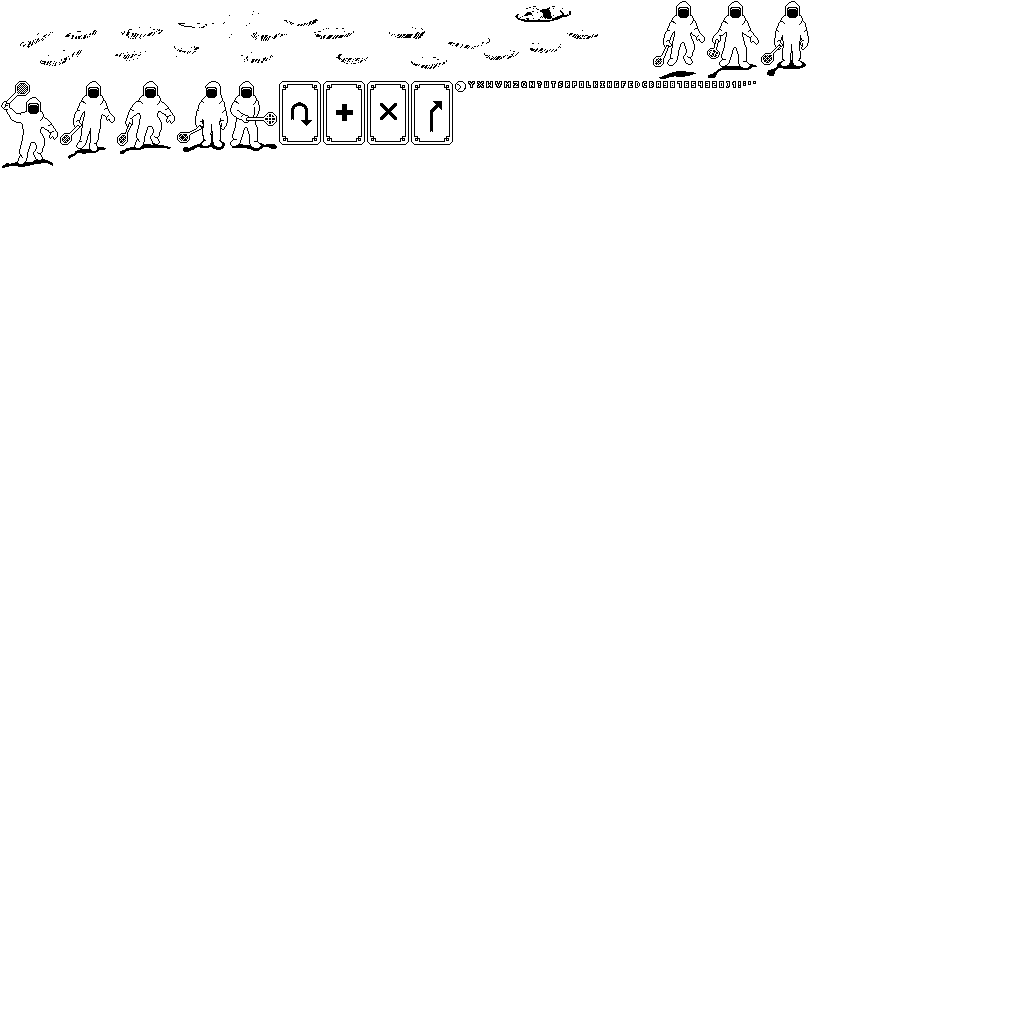
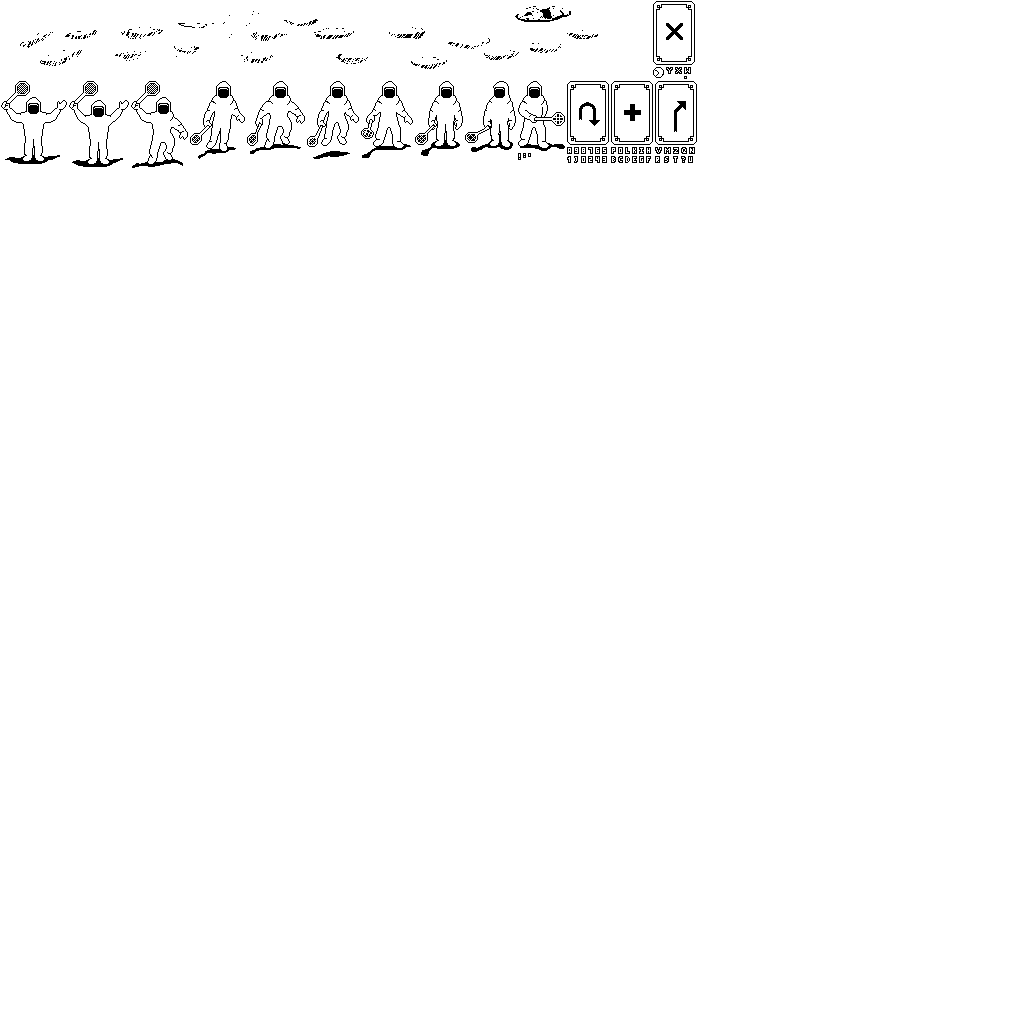
Add cheering animation for the winner
And declare a winner instead of a looser.

Changed region(s): [[0.0, 0.0, 0.7812, 0.1875]]

diff --git a/htdocs/index.html b/htdocs/index.html
@@ -85,13 +85,15 @@ var M = Math,
 	ASTRONAUT_MOVE3 = 205,
 	ASTRONAUT_STROKE0 = 206,
 	ASTRONAUT_STROKE1 = 207,
-	BALL = 208,
-	STAR0 = 209,
-	STAR1 = 210,
-	CARD_PLUS = 211,
-	CARD_DISTRACT = 212,
-	CARD_REVERSE = 213,
-	CARD_DROP = 214,
+	ASTRONAUT_CHEER0 = 208,
+	ASTRONAUT_CHEER1 = 209,
+	BALL = 210,
+	STAR0 = 211,
+	STAR1 = 212,
+	CARD_PLUS = 213,
+	CARD_DISTRACT = 214,
+	CARD_REVERSE = 215,
+	CARD_DROP = 216,
 	atlas,
 	sprites = [],
 	gl,
@@ -143,7 +145,7 @@ var M = Math,
 	ended,
 	serve,
 	missed,
-	looser,
+	winner,
 	computer
 
 function drawSprite(sprite, x, y, wm, hm) {
@@ -239,7 +241,11 @@ function drawAstronaut() {
 		freq,
 		frames,
 		e = this
-	if (now - e.catched < 200) {
+	if (e === winner) {
+		frames = e.cheeringLength
+		sprite = e.cheering[e.frame % frames]
+		freq = e.cheeringFreq
+	} else if (now - e.catched < 200) {
 		frames = e.catchingLength
 		sprite = e.catching[e.frame % frames]
 		freq = e.catchingFreq
@@ -335,7 +341,7 @@ function contains(rc, x, y) {
 }
 
 function input() {
-	if (looser) {
+	if (winner) {
 		if (pointersLength > 0 && now - ended > 3000) {
 			resize()
 		}
@@ -403,8 +409,8 @@ function run() {
 		var y = yMax * .2
 		drawCenterText('TAP HERE FOR 2 PLAYERS', 0, y)
 		drawCenterText('TAP HERE FOR 1 PLAYER', 0, -y)
-	} else if (looser) {
-		drawCenterText('PLAYER ' + looser.name + ' LOST', 0, 0)
+	} else if (winner) {
+		drawCenterText('PLAYER ' + winner.name + ' WON', 0, 0)
 	} else if (missed) {
 		drawCenterText('PLAYER ' + missed.name + ' MISSED', 0, 0)
 	}
@@ -460,7 +466,7 @@ function pointerUp(event) {
 		}
 	}
 	setPointer(event, false)
-	if (missed && serve < now) {
+	if (!winner && missed && serve < now) {
 		ball.stroke(missed)
 		missed.catched = now
 		missed = null
@@ -560,7 +566,12 @@ function createEntities() {
 			sprites[ASTRONAUT_STROKE0],
 			sprites[ASTRONAUT_STROKE1],
 		],
-		catchingFreq: 100,
+		catchingFreq: 200,
+		cheering: [
+			sprites[ASTRONAUT_CHEER0],
+			sprites[ASTRONAUT_CHEER1],
+		],
+		cheeringFreq: 200,
 		x: horizon,
 		y: baseLine,
 		direction: 1,
@@ -592,7 +603,12 @@ function createEntities() {
 			sprites[ASTRONAUT_STROKE0],
 			sprites[ASTRONAUT_STROKE1],
 		],
-		catchingFreq: 100,
+		catchingFreq: 200,
+		cheering: [
+			sprites[ASTRONAUT_CHEER0],
+			sprites[ASTRONAUT_CHEER1],
+		],
+		cheeringFreq: 200,
 		x: -horizon,
 		y: -baseLine,
 		direction: 1,
@@ -627,7 +643,7 @@ function createEntities() {
 				y = this.y
 			x += this.vx * factor
 			y += this.vy * factor
-			if (!missed && !looser) {
+			if (!missed && !winner) {
 				if (y < baseLine || y > -baseLine) {
 					var shooter, defender
 					if (y < 0) {
@@ -643,8 +659,8 @@ function createEntities() {
 						this.vy *= 1.05
 						defender.catched = now
 					} else if (missed !== defender) {
-						if (++shooter.score >= 21) {
-							looser = defender
+						if (++shooter.score >= 2) {
+							winner = shooter
 							ended = now
 						} else {
 							moveTo(shooter, 0)
@@ -675,7 +691,9 @@ function createEntities() {
 		e.idleLength = e.idle ? e.idle.length : 0
 		e.moveLength = e.move ? e.move.length : 0
 		e.catchingLength = e.catching ? e.catching.length : 0
-		e.height = getMaxHeightFromSets([e.idle, e.move, e.catching])
+		e.cheeringLength = e.cheering ? e.cheering.length : 0
+		e.height = getMaxHeightFromSets([e.idle, e.move, e.catching,
+			e.cheering])
 		e.frame = 0
 		e.last = 0
 		e.playedCard = 0
@@ -761,7 +779,7 @@ function resize() {
 	spaceWidth = sprites[87].w
 	letterSpacing = spaceWidth * -.05
 	playerRange = sprites[ASTRONAUT_IDLE0].w * 1.5
-	started = ended = missed = serve = looser = null
+	started = ended = missed = serve = winner = null
 
 	createCards()
 	createEntities()
@@ -771,62 +789,64 @@ function resize() {
 function calculateSpriteRects() {
 	var res = [
 			PLANET, {/*planet*/x:1,y:1,w:650,h:78},
-			ASTRONAUT_IDLE0, {/*astronaut_idle0*/x:761,y:1,w:48,h:75},
-			ASTRONAUT_IDLE1, {/*astronaut_idle1*/x:177,y:81,w:51,h:71},
-			ASTRONAUT_MOVE0, {/*astronaut_move0*/x:117,y:81,w:58,h:73},
-			ASTRONAUT_MOVE1, {/*astronaut_move1*/x:60,y:81,w:55,h:78},
-			ASTRONAUT_MOVE2, {/*astronaut_move2*/x:653,y:1,w:52,h:78},
-			ASTRONAUT_MOVE3, {/*astronaut_move3*/x:707,y:1,w:52,h:77},
-			ASTRONAUT_STROKE0, {/*astronaut_stroke0*/x:1,y:81,w:57,h:87},
-			ASTRONAUT_STROKE1, {/*astronaut_stroke1*/x:230,y:81,w:47,h:70},
-			BALL, {/*ball*/x:455,y:81,w:11,h:11},
-			STAR0, {/*star0*/x:761,y:78,w:1,h:1},
-			STAR1, {/*star1*/x:758,y:81,w:2,h:2},
-			CARD_PLUS, {/*card_plus*/x:323,y:81,w:42,h:64},
-			CARD_DISTRACT, {/*card_distract*/x:411,y:81,w:42,h:64},
-			CARD_REVERSE, {/*card_reverse*/x:279,y:81,w:42,h:64},
-			CARD_DROP, {/*card_drop*/x:367,y:81,w:42,h:64},
-			44, {/*ccomma*/x:748,y:81,w:3,h:4},
-			46, {/*cpoint*/x:753,y:81,w:3,h:3},
-			48, {/*c0*/x:719,y:81,w:5,h:7},
-			49, {/*c1*/x:732,y:81,w:4,h:7},
-			50, {/*c2*/x:712,y:81,w:5,h:7},
-			51, {/*c3*/x:705,y:81,w:5,h:7},
-			52, {/*c4*/x:698,y:81,w:5,h:7},
-			53, {/*c5*/x:691,y:81,w:5,h:7},
-			54, {/*c6*/x:684,y:81,w:5,h:7},
-			55, {/*c7*/x:677,y:81,w:5,h:7},
-			56, {/*c8*/x:670,y:81,w:5,h:7},
-			57, {/*c9*/x:663,y:81,w:5,h:7},
-			58, {/*ccolon*/x:743,y:81,w:3,h:5},
-			33, {/*cexcl*/x:738,y:81,w:3,h:7},
-			63, {/*cquest*/x:537,y:81,w:5,h:7},
-			65, {/*cA*/x:656,y:81,w:5,h:7},
-			66, {/*cB*/x:649,y:81,w:5,h:7},
-			67, {/*cC*/x:642,y:81,w:5,h:7},
-			68, {/*cD*/x:635,y:81,w:5,h:7},
-			69, {/*cE*/x:628,y:81,w:5,h:7},
-			70, {/*cF*/x:621,y:81,w:5,h:7},
-			71, {/*cG*/x:614,y:81,w:5,h:7},
-			72, {/*cH*/x:607,y:81,w:5,h:7},
-			73, {/*cI*/x:600,y:81,w:5,h:7},
-			74, {/*cJ*/x:726,y:81,w:4,h:7},
-			75, {/*cK*/x:593,y:81,w:5,h:7},
-			76, {/*cL*/x:586,y:81,w:5,h:7},
-			77, {/*cM*/x:504,y:81,w:7,h:7},
-			78, {/*cN*/x:529,y:81,w:6,h:7},
-			79, {/*cO*/x:579,y:81,w:5,h:7},
-			80, {/*cP*/x:572,y:81,w:5,h:7},
-			81, {/*cQ*/x:521,y:81,w:6,h:7},
-			82, {/*cR*/x:565,y:81,w:5,h:7},
-			83, {/*cS*/x:558,y:81,w:5,h:7},
-			84, {/*cT*/x:551,y:81,w:5,h:7},
-			85, {/*cU*/x:544,y:81,w:5,h:7},
-			86, {/*cV*/x:495,y:81,w:7,h:7},
-			87, {/*cW*/x:486,y:81,w:7,h:7},
-			88, {/*cX*/x:477,y:81,w:7,h:7},
-			89, {/*cY*/x:468,y:81,w:7,h:7},
-			90, {/*cZ*/x:513,y:81,w:6,h:7},
+			ASTRONAUT_IDLE0, {/*astronaut_idle0*/x:415,y:81,w:48,h:75},
+			ASTRONAUT_IDLE1, {/*astronaut_idle1*/x:465,y:81,w:51,h:71},
+			ASTRONAUT_MOVE0, {/*astronaut_move0*/x:247,y:81,w:58,h:73},
+			ASTRONAUT_MOVE1, {/*astronaut_move1*/x:190,y:81,w:55,h:78},
+			ASTRONAUT_MOVE2, {/*astronaut_move2*/x:307,y:81,w:52,h:78},
+			ASTRONAUT_MOVE3, {/*astronaut_move3*/x:361,y:81,w:52,h:77},
+			ASTRONAUT_STROKE0, {/*astronaut_stroke0*/x:131,y:81,w:57,h:87},
+			ASTRONAUT_STROKE1, {/*astronaut_stroke1*/x:518,y:81,w:47,h:70},
+			ASTRONAUT_CHEER0, {/*astronaut_cheer0*/x:69,y:81,w:60,h:86},
+			ASTRONAUT_CHEER1, {/*astronaut_cheer1*/x:1,y:81,w:66,h:83},
+			BALL, {/*ball*/x:653,y:67,w:11,h:11},
+			STAR0, {/*star0*/x:693,y:71,w:1,h:1},
+			STAR1, {/*star1*/x:693,y:67,w:2,h:2},
+			CARD_PLUS, {/*card_plus*/x:611,y:81,w:42,h:64},
+			CARD_DISTRACT, {/*card_distract*/x:655,y:81,w:42,h:64},
+			CARD_REVERSE, {/*card_reverse*/x:567,y:81,w:42,h:64},
+			CARD_DROP, {/*card_drop*/x:653,y:1,w:42,h:64},
+			44, {/*ccomma*/x:528,y:153,w:3,h:4},
+			46, {/*cpoint*/x:684,y:76,w:3,h:3},
+			48, {/*c0*/x:581,y:156,w:5,h:7},
+			49, {/*c1*/x:567,y:156,w:4,h:7},
+			50, {/*c2*/x:588,y:156,w:5,h:7},
+			51, {/*c3*/x:602,y:156,w:5,h:7},
+			52, {/*c4*/x:595,y:156,w:5,h:7},
+			53, {/*c5*/x:602,y:147,w:5,h:7},
+			54, {/*c6*/x:595,y:147,w:5,h:7},
+			55, {/*c7*/x:588,y:147,w:5,h:7},
+			56, {/*c8*/x:581,y:147,w:5,h:7},
+			57, {/*c9*/x:574,y:147,w:5,h:7},
+			58, {/*ccolon*/x:523,y:153,w:3,h:5},
+			33, {/*cexcl*/x:518,y:153,w:3,h:7},
+			63, {/*cquest*/x:681,y:156,w:5,h:7},
+			65, {/*cA*/x:567,y:147,w:5,h:7},
+			66, {/*cB*/x:611,y:156,w:5,h:7},
+			67, {/*cC*/x:618,y:156,w:5,h:7},
+			68, {/*cD*/x:625,y:156,w:5,h:7},
+			69, {/*cE*/x:632,y:156,w:5,h:7},
+			70, {/*cF*/x:646,y:156,w:5,h:7},
+			71, {/*cG*/x:639,y:156,w:5,h:7},
+			72, {/*cH*/x:646,y:147,w:5,h:7},
+			73, {/*cI*/x:639,y:147,w:5,h:7},
+			74, {/*cJ*/x:574,y:156,w:4,h:7},
+			75, {/*cK*/x:632,y:147,w:5,h:7},
+			76, {/*cL*/x:625,y:147,w:5,h:7},
+			77, {/*cM*/x:664,y:147,w:7,h:7},
+			78, {/*cN*/x:689,y:147,w:6,h:7},
+			79, {/*cO*/x:618,y:147,w:5,h:7},
+			80, {/*cP*/x:611,y:147,w:5,h:7},
+			81, {/*cQ*/x:681,y:147,w:6,h:7},
+			82, {/*cR*/x:655,y:156,w:5,h:7},
+			83, {/*cS*/x:664,y:156,w:5,h:7},
+			84, {/*cT*/x:673,y:156,w:5,h:7},
+			85, {/*cU*/x:688,y:156,w:5,h:7},
+			86, {/*cV*/x:655,y:147,w:7,h:7},
+			87, {/*cW*/x:684,y:67,w:7,h:7},
+			88, {/*cX*/x:675,y:67,w:7,h:7},
+			89, {/*cY*/x:666,y:67,w:7,h:7},
+			90, {/*cZ*/x:673,y:147,w:6,h:7},
 		],
 		positions = [],
 		xf = 1 / atlas.width,
